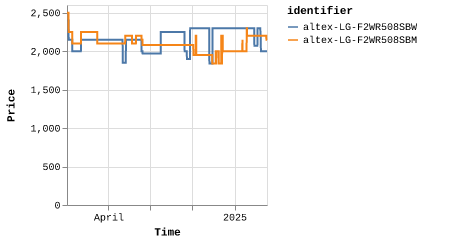
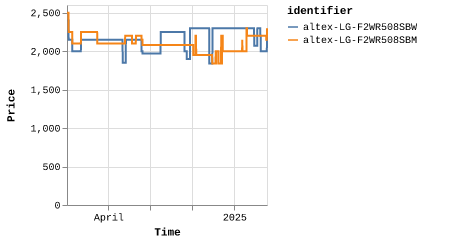
Latest scraping spalat: Thu Mar 13 04:45:16 UTC 2025

Changed region(s): [[0.4565, 0.0289, 0.6087, 0.9256], [0.2435, 0.1736, 0.2739, 0.2025]]

diff --git a/scrapes/spalat/altex-LG-F2WR508SBM.md b/scrapes/spalat/altex-LG-F2WR508SBM.md
@@ -1,3 +1,3 @@
-2149
+2299
 
 [Source](https://altex.ro/masina-de-spalat-rufe-frontala-slim-lg-f2wr508sbm-steam-8-kg-1200rpm-clasa-a-negru/cpd/MSFF2WR508SBM/)

diff --git a/scrapes/spalat/altex-LG-F2WR508SBW.md b/scrapes/spalat/altex-LG-F2WR508SBW.md
@@ -1,3 +1,3 @@
-1999
+2199
 
 [Source](https://altex.ro/masina-de-spalat-rufe-frontala-slim-lg-f2wr508sbw-steam-8-kg-1200rpm-clasa-a-alb/cpd/MSFF2WR508SBW/)
